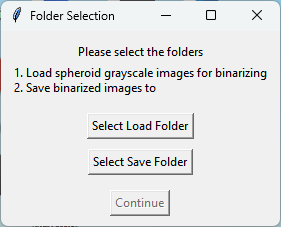
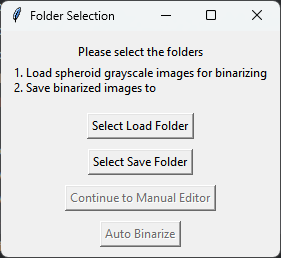
Updated README.md to reflect the most recent changes

Changed region(s): [[0.0, 0.0, 1.0, 1.0], [0.0, 0.5859, 0.0285, 0.6784]]

diff --git a/README.md b/README.md
@@ -33,8 +33,8 @@ This file handles the binarization of images, providing a class to load a graysc
 This file defines the graphical user interface (GUI) for the application, built using Tkinter. The GUI allows users to:
 
 - **MainMenu**: The main menu that provides access to three functionalities: binarize images, analyze images, and consolidate CSV files.
-- **ImageBinarizationApp**: Handles the binarization of images, including loading images, applying thresholds, drawing boundaries, and saving the results.
-- **SpheroidAnalysisApp**: Manages the analysis of spheroid images, allowing users to select folders, input metadata, and run the analysis to calculate the metrics used in the paper.
+- **ImageBinarizationApp**: Handles the binarization of images, including loading images, applying thresholds, drawing boundaries, and saving the results. This section applies a binarization threshold to initial gray scale images and saves them either with or without a circular mask.
+- **SpheroidAnalysisApp**: Manages the analysis of spheroid images, allowing users to select folders, input metadata, and run the analysis to calculate the metrics used in the paper. This section calculates statics for the images based off the binarized images and saves explanatory plots as well as raw data in a summary csv file.
 - **CSVConcatenatorApp**: Allows users to select and concatenate multiple CSV files into a single file.
 
 ## Detailed ReadMe and Usage Guide
@@ -79,6 +79,16 @@ An invalid image name:
 10x_CH1_1_day2_8bit_18S.tif
 ```
 
+#### Running the Application
+
+To run the application, execute the `gui.py` file:
+
+```bash
+python gui.py
+```
+
+Or double click `run.bat` file on Windows
+
 #### Main Menu
 
 When you run the application, the main window opens, providing access to three main functions:
@@ -92,9 +102,10 @@ When you run the application, the main window opens, providing access to three m
 *The GUI main menu*
 
 #### Settings Page
-1. **Performance Settings** The only setting that affects performance is the batch size. The batch size is the number of pixels to process during each iteration during the analysis step. A larger batch size can lead to shorter processing times by higher RAM usage.
-2. **Dimensional Settings** These set the time unit and the micrometers per pixel. The time unit should match the one used in your file name. In the example provided an image was taken each hour.
-3. **Plot Settings** The GUI will automatically produce plots during the analysis step. This lets the user set the font, font size, and tick size for the axes. The plot settings can be previewed once chosen.
+1. **Binarize Settings** These settings control the default binarization parameters. The threshold adjusts the binarization threshold and the blur controls a gaussian blur used assist in auto contour detection. If auto clean is selected the application will automatically remove artifacts outside the largest boundary in the initial image (where the time is 0) if auto binarization is selected.
+2. **Performance Settings** The only setting that affects performance is the batch size. The batch size is the number of pixels to process during each iteration during the analysis step. A larger batch size can lead to shorter processing times by higher RAM usage.
+3. **Dimensional Settings** These set the time unit and the micrometers per pixel. The time unit should match the one used in your file name. In the example provided an image was taken each hour.
+4. **Plot Settings** The GUI will automatically produce plots during the analysis step. This lets the user set the font, font size, and tick size for the axes. The plot settings can be previewed once chosen.
 
 ![settings.png](GUI%20instructional%20images%2Fsettings.png)
 
@@ -107,13 +118,17 @@ When you run the application, the main window opens, providing access to three m
 2. **Select Folders**:
     - Click "Select Load Folder" to choose the folder containing the images you want to binarize.
     - Click "Select Save Folder" to choose the folder where the binarized images will be saved.
-    - Once you have selected your folders press continue
+    - Once you have selected your folders press 'Continue to Manual Editor' to manually binarize your images or
+      'Auto Binarize' to automatically apply your default binarization settings
+3. **Auto Binarize**:
+   - If 'Auto Binarize' is selected all images in the selected folder will be binarized with the default threshold and,
+     if auto clean is checked, will remove artifacts outside the main spheroid utilizing the chosen gaussian blur.
    
 ![binarize folder selection.png](GUI%20instructional%20images%2Fbinarize%20folder%20selection.png)
 
 *The binarize folder selection menu*
 
-3. **Binarize Window**:
+3. **Manual Binarize Window**:
    - The main binarization menu is used to customize image binarization. It allows the user to apply binarization thresholds globally throughout an entire image or locally within a drawn mask. It also allows users to automatically remove pixels outside of the main spheroid with automatic boundary detection.
    - The images will be displayed side-by-side: the original grayscale image on the left and the binarized image on the right.
    - Use the "Threshold" slider to adjust the binarization threshold.
@@ -157,16 +172,6 @@ Once all images are analyzed they can be concatenated into one csv in the GUI fo
 ![concatenate files.png](GUI%20instructional%20images%2Fconcatenate%20files.png)
 
 *The concatenate files window. Se*
-
-### Running the Application
-
-To run the application, execute the `gui.py` file:
-
-```bash
-python gui.py
-```
-
-Or double click `run.bat` file on Windows
 
 ## Usage Guide for Direct Code Usage
 
